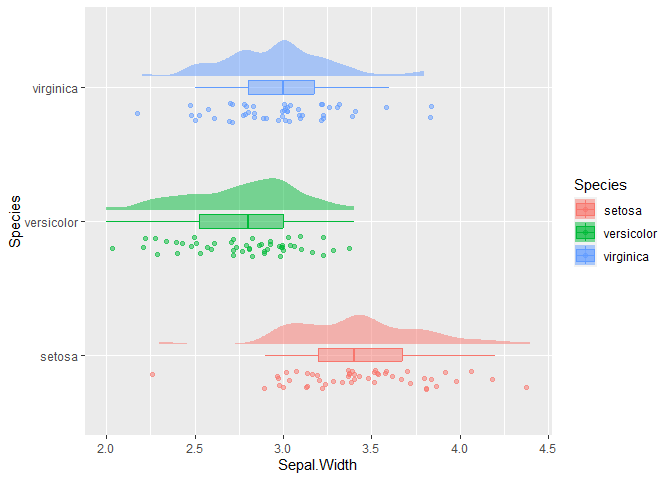
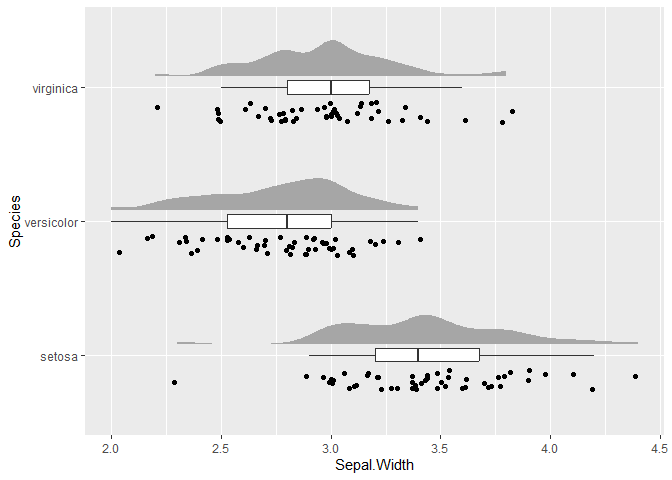
update readme

diff --git a/README.md b/README.md
@@ -25,14 +25,23 @@ Create a raincloud plot using `raincloud()`.
 ``` r
 library(ggraincloud)
 
-raincloud(iris, ggplot2::aes(Species, Sepal.Width, color = Species, fill=Species), alpha = .5, flip_coords = TRUE)
+raincloud(iris, ggplot2::aes(Species, Sepal.Width), flip_coords = TRUE)
 ```
 
 <img src="man/figures/README-example-1.png" width="100%" />
 
 ``` r
 
-raincloud(iris, ggplot2::aes(Species, Sepal.Width, color = Species, fill=Species), alpha = .5, flip_coords = FALSE)
+raincloud(iris,
+          ggplot2::aes(
+            Species,
+            Sepal.Width,
+            color = Species,
+            fill=Species
+          ),
+          alpha = .5,
+          flip_coords = FALSE
+        )
 ```
 
 <img src="man/figures/README-example-2.png" width="100%" />
